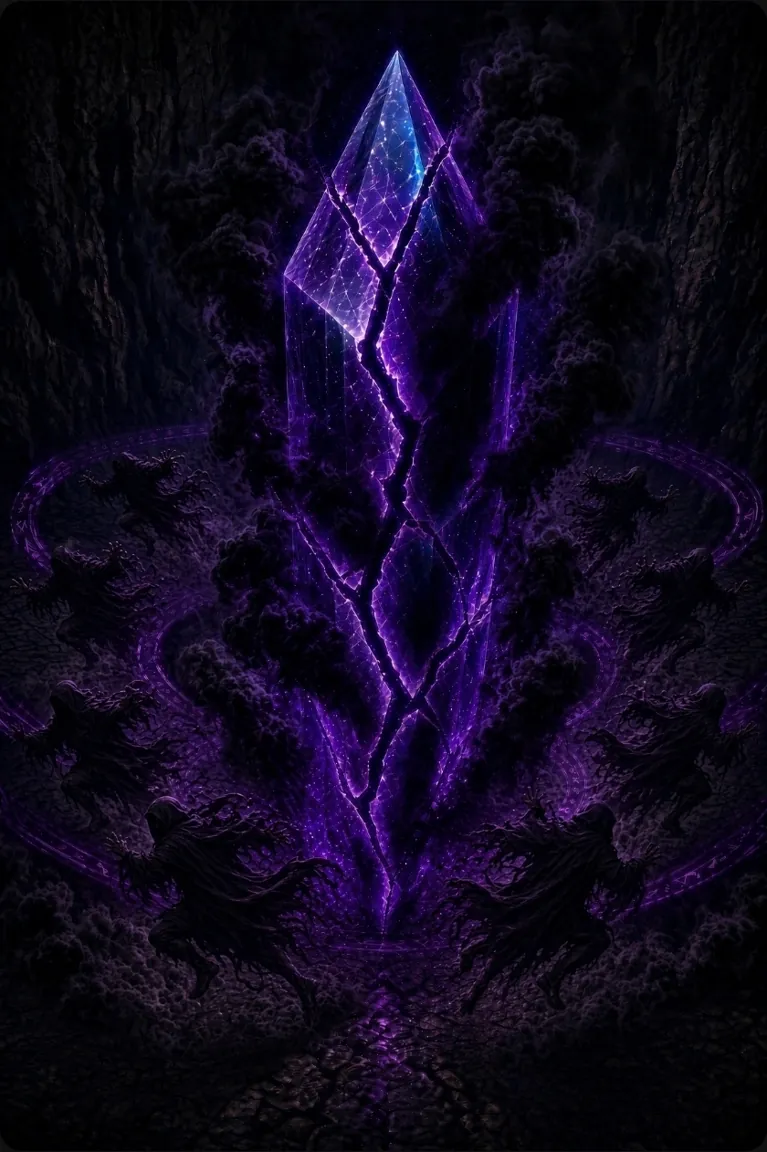
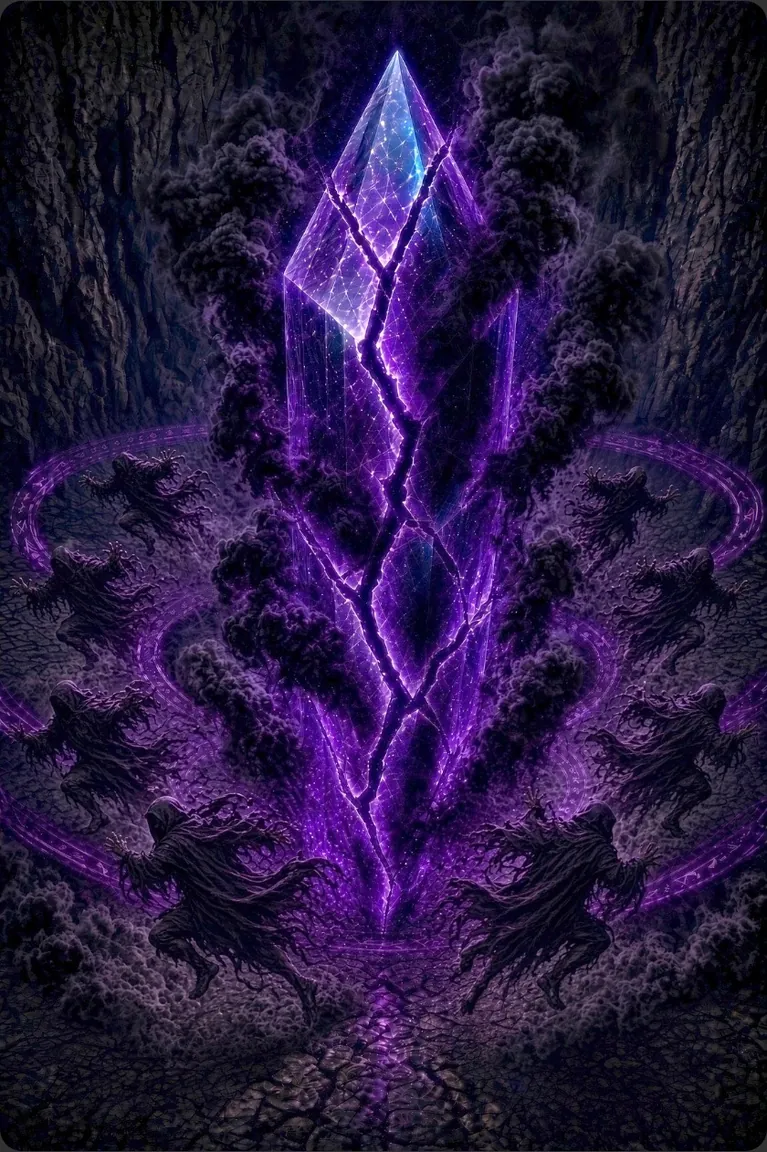
Stage 6: lighten 11 too-dark story wall-art pieces (local only)
Replace 11 assigned art6/*.webp with brighter reconversions (long edge
1152, quality 80) from Eve's lightened JPGs. Bump offline cache VER 15->16
and matching stage3-6 / stage4_fix cache-name checks. No story text,
ROOM_ART, companion, or room-order changes. Not published.

diff --git a/sw.js b/sw.js
@@ -1,4 +1,4 @@
-const VER="15",CACHE="sota-s1-v"+VER;
+const VER="16",CACHE="sota-s1-v"+VER;
 const SHELL=["./","index.html","maze-data.js?v=14","tex.js?v=14","doors.js?v=14","game.js?v=14","puzzles.js?v=14","puzzle-ui.js?v=14","map.js?v=14","rules.js?v=14","econ.js?v=14","party.js?v=14","story-data.js?v=14","story.js?v=14","boot.js?v=14","art6/cat-angry.webp","art6/cat-calm.webp","art6/cat-happy.webp","art6/cat-shock.webp","art6/dwarf-angry.webp","art6/dwarf-calm.webp","art6/dwarf-happy.webp","art6/dwarf-shock.webp","art6/elf-angry.webp","art6/elf-calm.webp","art6/elf-happy.webp","art6/elf-shock.webp","art6/knight-angry.webp","art6/knight-calm.webp","art6/knight-happy.webp","art6/knight-shock.webp","art6/tavern-1.webp","art6/tavern-2.webp","art6/tavern-3.webp","art6/tavern-4.webp","art6/tavern-5.webp","art6/zone1-01-rat-entrance.webp","art6/zone1-02-slime.webp","art6/zone1-03-spider-toward-tavern.webp","art6/zone2-01-no-way-out.webp","art6/zone2-02-maze-guy-question-mark.webp","art6/zone2-03-maze-guy-xs.webp","art6/zone2-04-maze-xs-guy-outside.webp","art6/zone3-01-crystal-defined-monsters.webp","art6/zone3-02-crystal-monsters-eyes-forming.webp","art6/zone3-03-crystal-hands-and-monster-shapes.webp","art6/zone3-04-crystal-hands-only.webp","art6/zone3-05-crystal-cracked-smoke.webp","art6/zone4-01-robed-circle-crystal.webp","art6/zone4-02-robed-circle-raised-hands.webp","art6/zone4-03-robed-circle-purple-tendrils.webp","art6/zone4-04-dark-robes-purple-tendrils.webp","art6/zone4-05-dark-robes-cracked-crystal.webp","art6/zone4-06-dark-robes-cracked-smoke.webp","art6/zone4-07-figures-thrown-back-smoke.webp","art6/zone5-01-handshake-crystal.webp","art6/zone5-02-figure-holding-book.webp","art6/zone5-03-figure-hood-down.webp","art6/zone5-04-crystal-between-two-figures.webp","art6/zone5-05-figure-before-council.webp","art6/zone5-06-tavern-toast.webp","art6/zone5-07-shop-glowing-stones.webp","art6/zone5-08-picnic-farthest.webp","art6/zone5-09-bedside-center.webp","manifest.json","icons/icon-192.png","icons/icon-512.png","icons/maskable-512.png"];
 // all-or-nothing install: if any file is missing the install fails and the old version keeps running
 self.addEventListener("install",e=>{e.waitUntil(caches.has(CACHE).then(had=>caches.open(CACHE).then(c=>c.addAll(SHELL.map(u=>new Request(u,{cache:"reload"})))).then(()=>self.skipWaiting(),err=>(had?Promise.resolve():caches.delete(CACHE)).then(()=>{throw err}))))});

diff --git a/tests/stage4_fix_tests.py b/tests/stage4_fix_tests.py
@@ -141,28 +141,28 @@ def t_sw_update(p):
       pg.reload();t0=time.time()
       while time.time()-t0<20:
         try:
-          if ev(pg,'!!(window.SOTA&&SOTA.rpg&&SOTA.rpg.ui()==="create")') and ev(pg,'caches.keys()')==["sota-s1-v15"]:break
+          if ev(pg,'!!(window.SOTA&&SOTA.rpg&&SOTA.rpg.ui()==="create")') and ev(pg,'caches.keys()')==["sota-s1-v16"]:break
           if ev(pg,'(()=>{const u=document.getElementById("updb");return !!u&&getComputedStyle(u).display!=="none"})()'):
             bb=pg.locator('#updb').bounding_box();pg.touchscreen.tap(bb['x']+bb['width']/2,bb['y']+bb['height']/2)
         except Exception:pass
         pg.wait_for_timeout(300)
       check(ev(pg,'!!(window.SOTA&&SOTA.rpg&&SOTA.rpg.ui()==="create")'),f'v{ver} -> v14: creation never showed')
-      k=ev(pg,'caches.keys()');check(k==['sota-s1-v15'],f'new cache not active {k}');full_create(pg,'Swy');b.close()
+      k=ev(pg,'caches.keys()');check(k==['sota-s1-v16'],f'new cache not active {k}');full_create(pg,'Swy');b.close()
     finally:pr.terminate();shutil.rmtree(d,ignore_errors=True)
 def t_sw_autoreload(p):
-  """from v6 on: a new version (here a pretend v15) reloads by itself when no hero exists yet - no banner tap needed"""
+  """from v6 on: a new version (here a pretend v16) reloads by itself when no hero exists yet - no banner tap needed"""
   d=tempfile.mkdtemp(prefix='sota-swup7-');copy_app(ROOT,d);pr,url=serve(d)
   try:
     b,c=ctx(p,390,844,sw=True);pg=c.new_page();pg.goto(url+'index.html');[pg.wait_for_timeout(300) for _ in range(50) if not ev(pg,'!!navigator.serviceWorker.controller')]
-    check(ev(pg,'caches.keys()')==['sota-s1-v15'],'v15 cache not in place');pg.reload();pg.wait_for_timeout(500);ev(pg,'window.__mark=1')
-    s=open(os.path.join(d,'sw.js')).read();open(os.path.join(d,'sw.js'),'w').write(s.replace('VER="15"','VER="16"'))
+    check(ev(pg,'caches.keys()')==['sota-s1-v16'],'v16 cache not in place');pg.reload();pg.wait_for_timeout(500);ev(pg,'window.__mark=1')
+    s=open(os.path.join(d,'sw.js')).read();open(os.path.join(d,'sw.js'),'w').write(s.replace('VER="16"','VER="17"'))
     ev(pg,'navigator.serviceWorker.getRegistration().then(r=>r&&r.update())');t0=time.time()
     while time.time()-t0<20:
       try:
         if ev(pg,'!window.__mark&&!!(window.SOTA&&SOTA.rpg)'):break
       except Exception:pass
       pg.wait_for_timeout(300)
-    check(ev(pg,'!window.__mark'),'page did not reload by itself on update');check(ev(pg,'caches.keys()')==['sota-s1-v16'],'v16 cache not active');check(ui(pg)=='create','creation not shown after update');b.close()
+    check(ev(pg,'!window.__mark'),'page did not reload by itself on update');check(ev(pg,'caches.keys()')==['sota-s1-v17'],'v17 cache not active');check(ui(pg)=='create','creation not shown after update');b.close()
   finally:pr.terminate();shutil.rmtree(d,ignore_errors=True)
 # ---------------- branch menus ----------------
 def hero(pg,name='Tess',cls='warrior',race='human'):

diff --git a/tests/stage4_tests.py b/tests/stage4_tests.py
@@ -180,8 +180,8 @@ def t_ui_fit(p):
     check(not bad,f'{w}x{h} small/offscreen buttons {bad[:5]}');pb=pg.locator('#partyb').bounding_box();check(pb['width']>=44,'party button');b.close()
 def t_offline4(p):
   b,c=ctx(p,sw=True);pg=c.new_page();pg.goto(BASE+'index.html');pg.wait_for_function('navigator.serviceWorker.ready.then(()=>true)');pg.reload();pg.wait_for_function('window.SOTA&&navigator.serviceWorker.controller')
-  ok=pg.evaluate('(async()=>{const k=await caches.keys();const c=await caches.open("sota-s1-v15");const r=[];for(const f of["rules.js?v=14","party.js?v=14","game.js?v=14","index.html"])r.push(!!(await c.match(f)));return [k,r]})()')
-  check(all(ok[1]) and ok[0]==['sota-s1-v15'],f'cache {ok}');c.set_offline(True);pg.reload();pg.wait_for_function('window.SOTA&&SOTA.rpg');tap(pg,'#partyb');check(ev(pg,'SOTA.rpg.ui()')=='create','offline creation');b.close()
+  ok=pg.evaluate('(async()=>{const k=await caches.keys();const c=await caches.open("sota-s1-v16");const r=[];for(const f of["rules.js?v=14","party.js?v=14","game.js?v=14","index.html"])r.push(!!(await c.match(f)));return [k,r]})()')
+  check(all(ok[1]) and ok[0]==['sota-s1-v16'],f'cache {ok}');c.set_offline(True);pg.reload();pg.wait_for_function('window.SOTA&&SOTA.rpg');tap(pg,'#partyb');check(ev(pg,'SOTA.rpg.ui()')=='create','offline creation');b.close()
   check('updateViaCache:"none"' in open(os.path.join(ROOT,'boot.js')).read(),'updateViaCache')
 def t_unchanged(p):
   d=subprocess.run(['git','diff','--stat','c11ccd52511198071301d9c30bb032a4cfaed635','--','tex.js','puzzles.js','puzzle-ui.js','map.js','doors.js','maze-data.js'],cwd=ROOT,capture_output=True,text=True).stdout

diff --git a/tests/stage3_tests.py b/tests/stage3_tests.py
@@ -132,8 +132,8 @@ def t_difficulty(p):
 
 def t_offline3(p):
   b,c=ctx(p,sw=True);pg=c.new_page();pg.goto(BASE+'index.html');pg.wait_for_function('navigator.serviceWorker.ready.then(()=>true)');pg.reload();pg.wait_for_function('window.SOTA&&navigator.serviceWorker.controller')
-  ok=pg.evaluate('(async()=>{const k=(await caches.keys());const c=await caches.open(k.find(x=>x=="sota-s1-v15"));const r=[];for(const f of["puzzles.js?v=14","puzzle-ui.js?v=14","doors.js?v=14","game.js?v=14"])r.push(!!(await c.match(f)));return [k,r]})()')
-  check(all(ok[1]) and ok[0]==['sota-s1-v15'],f'cache {ok}');c.set_offline(True);pg.reload();pg.wait_for_selector('#puz',state='attached');pg.wait_for_timeout(500);pg.evaluate('SOTA.puzzle.open(3)');check(pg.evaluate('SOTA.puzzleOpen()'),'offline puzzle');b.close()
+  ok=pg.evaluate('(async()=>{const k=(await caches.keys());const c=await caches.open(k.find(x=>x=="sota-s1-v16"));const r=[];for(const f of["puzzles.js?v=14","puzzle-ui.js?v=14","doors.js?v=14","game.js?v=14"])r.push(!!(await c.match(f)));return [k,r]})()')
+  check(all(ok[1]) and ok[0]==['sota-s1-v16'],f'cache {ok}');c.set_offline(True);pg.reload();pg.wait_for_selector('#puz',state='attached');pg.wait_for_timeout(500);pg.evaluate('SOTA.puzzle.open(3)');check(pg.evaluate('SOTA.puzzleOpen()'),'offline puzzle');b.close()
   check('updateViaCache:"none"' in open(os.path.join(ROOT,'boot.js')).read(),'updateViaCache')
 
 def t_console_network3(p):

diff --git a/tests/stage6_tests.py b/tests/stage6_tests.py
@@ -250,8 +250,8 @@ def t_old_save_loads(p):
 # ---------- offline ----------
 def t_offline_v14(p):
   b,c=ctx(p,sw=True);pg=c.new_page();pg.goto(S4.BASE+'index.html');[pg.wait_for_timeout(300) for _ in range(50) if not ev(pg,'!!navigator.serviceWorker.controller')]
-  ok=ev(pg,'(async()=>{const k=await caches.keys();const c=await caches.open("sota-s1-v15");const r=[];for(const f of["story.js?v=14","story-data.js?v=14","art6/cat-happy.webp","art6/tavern-1.webp","art6/zone5-09-bedside-center.webp"])r.push(!!(await c.match(f)));return [k,r]})()')
-  check(ok[0]==['sota-s1-v15'] and all(ok[1]),f'cache {ok}');c.set_offline(True);pg.reload();pg.wait_for_function('window.SOTA&&SOTA.rpg');create(pg);pg.wait_for_timeout(300)
+  ok=ev(pg,'(async()=>{const k=await caches.keys();const c=await caches.open("sota-s1-v16");const r=[];for(const f of["story.js?v=14","story-data.js?v=14","art6/cat-happy.webp","art6/tavern-1.webp","art6/zone5-09-bedside-center.webp"])r.push(!!(await c.match(f)));return [k,r]})()')
+  check(ok[0]==['sota-s1-v16'] and all(ok[1]),f'cache {ok}');c.set_offline(True);pg.reload();pg.wait_for_function('window.SOTA&&SOTA.rpg');create(pg);pg.wait_for_timeout(300)
   check(ev(pg,'SOTA.storyOpen()'),'opening offline');ev(pg,'SOTA.rpg.s6.setSpeed(0)')
   ev(pg,'SOTA.teleport(MAZE.taverns[1][0],MAZE.taverns[1][1],0)');b.close()
 def t_no_network_no_ads(p):

diff --git a/tests/stage5_tests.py b/tests/stage5_tests.py
@@ -172,8 +172,8 @@ def t_fit_s5(p):
     b.close()
 def t_offline5(p):
   b,c=ctx(p,sw=True);pg=c.new_page();pg.goto(S4.BASE+'index.html');pg.wait_for_function('navigator.serviceWorker.ready.then(()=>true)');pg.reload();pg.wait_for_function('window.SOTA&&navigator.serviceWorker.controller')
-  ok=pg.evaluate('(async()=>{const k=await caches.keys();const c=await caches.open("sota-s1-v15");return [k,!!(await c.match("econ.js?v=14"))]})()')
-  check(ok==[['sota-s1-v15'],True],f'econ.js not cached {ok}');c.set_offline(True);pg.reload();pg.wait_for_function('window.SOTA&&SOTA.rpg');check(ev(pg,'!!window.ECON&&ECON.DISHES.length===20'),'ECON missing offline');b.close()
+  ok=pg.evaluate('(async()=>{const k=await caches.keys();const c=await caches.open("sota-s1-v16");return [k,!!(await c.match("econ.js?v=14"))]})()')
+  check(ok==[['sota-s1-v16'],True],f'econ.js not cached {ok}');c.set_offline(True);pg.reload();pg.wait_for_function('window.SOTA&&SOTA.rpg');check(ev(pg,'!!window.ECON&&ECON.DISHES.length===20'),'ECON missing offline');b.close()
 def t_s5_code_clean(p):
   src=''.join(open(os.path.join(ROOT,f)).read() for f in['econ.js','party.js'])
   check('fetch(' not in src and 'http' not in src and 'XMLHttpRequest' not in src,'network in stage 5 code')
